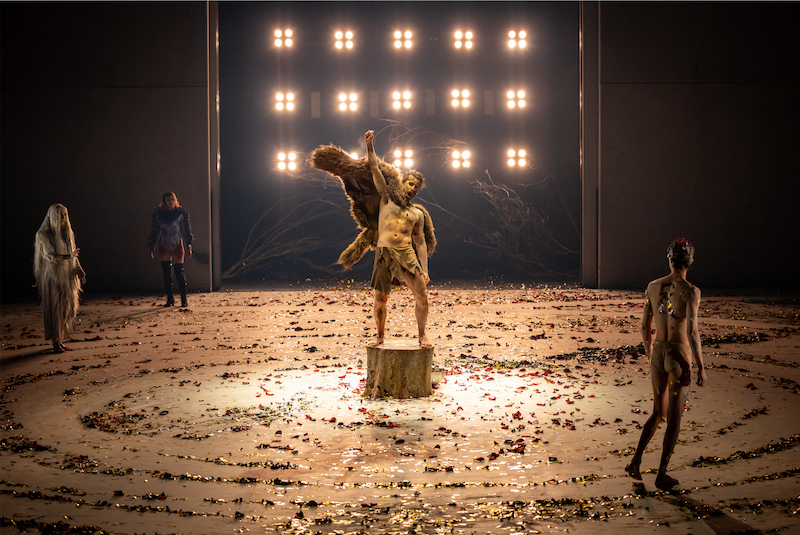
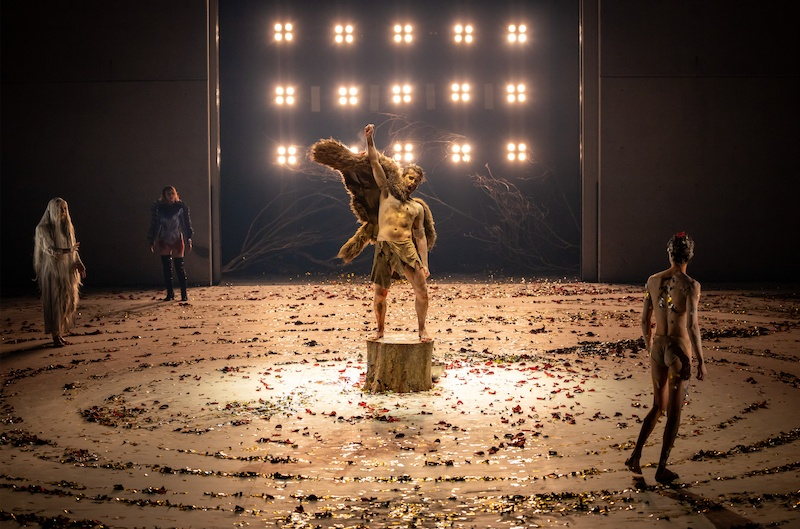
added perfs

diff --git a/media.html b/media.html
@@ -105,133 +105,131 @@
       <div class="container">
         <h2 class="section-heading mb-5">Gallery & Reviews</h2>
 
-        <div class="mosaic-grid">
+        <div class=”mosaic-grid”>
           <!-- IMAGES + REVIEW TILES -->
-          <div class="mosaic-item large" data-aos="zoom-in">
-            <a href="images/opera1.jpg" class="glightbox" data-gallery="media-gallery" data-title="Mr Jeffris in Oscar and Lucinda, Sydney Chamber Opera">
-              <img src="images/opera1.jpg" alt="Opera production 1" loading="lazy">
+          <div class=”mosaic-item large” data-aos=”zoom-in”>
+            <a href=”images/GilgameshHero.jpg” class=”glightbox” data-gallery=”media-gallery” data-title=”Title role in Gilgamesh, Opera Australia / Sydney Chamber Opera”>
+              <img src=”images/GilgameshHero.jpg” alt=”Gilgamesh hero” loading=”lazy”>
             </a>
           </div>
 
-          <div class="mosaic-item review-tile" data-aos="fade-up">
+          <div class=”mosaic-item review-tile” data-aos=”fade-up”>
             <blockquote>
               “Kleeman’s dexterity and luscious tone command the listener’s attention.”
               <footer>— Cut Common Magazine</footer>
             </blockquote>
           </div>
 
-          <div class="mosaic-item portrait" data-aos="zoom-in" data-aos-delay="1000">
-            <a href="images/opera9.jpg" class="glightbox" data-gallery="media-gallery" data-title="Figaro in The Marriage of Figaro, Opera Australia">
-              <img src="images/opera9.jpg" alt="Opera production 9" loading="lazy">
+          <div class=”mosaic-item landscape” data-aos=”zoom-in” data-aos-delay=”100”>
+            <a href=”images/NZSO.jpeg” class=”glightbox” data-gallery=”media-gallery” data-title=”Stabat Mater — New Zealand Symphony Orchestra”>
+              <img src=”images/NZSO.jpeg” alt=”New Zealand Symphony Orchestra” loading=”lazy”>
             </a>
           </div>
 
-                     <div class="mosaic-item portrait" data-aos="zoom-in" data-aos-delay="200">
-            <a href="images/opera3.jpg" class="glightbox" data-gallery="media-gallery" data-title="Collatinus in The Rape of Lucretia, Sydney Chamber Opera">
-              <img src="images/opera3.jpg" alt="Opera production 3" loading="lazy">
+          <div class=”mosaic-item portrait” data-aos=”zoom-in” data-aos-delay=”200”>
+            <a href=”images/opera9.jpg” class=”glightbox” data-gallery=”media-gallery” data-title=”Figaro in The Marriage of Figaro, Opera Australia”>
+              <img src=”images/opera9.jpg” alt=”Opera production 9” loading=”lazy”>
             </a>
           </div>
 
-          <div class="mosaic-item" data-aos="zoom-in" data-aos-delay="500">
-            <a href="images/opera5.jpg" class="glightbox" data-gallery="media-gallery" data-title="Marquis D'Obiginy in La traviata, Victorian Opera">
-              <img src="images/opera5.jpg" alt="Opera production 5" loading="lazy">
+          <div class=”mosaic-item landscape” data-aos=”zoom-in” data-aos-delay=”300”>
+            <a href=”images/CosiOQ.jpg” class=”glightbox” data-gallery=”media-gallery” data-title=”Guglielmo in Così fan tutte, Opera Queensland”>
+              <img src=”images/CosiOQ.jpg” alt=”Così fan tutte — Opera Queensland” loading=”lazy”>
             </a>
           </div>
 
-          <div class="mosaic-item review-tile" data-aos="fade-up" data-aos-delay="600">
+          <div class=”mosaic-item portrait” data-aos=”zoom-in” data-aos-delay=”200”>
+            <a href=”images/opera3.jpg” class=”glightbox” data-gallery=”media-gallery” data-title=”Collatinus in The Rape of Lucretia, Sydney Chamber Opera”>
+              <img src=”images/opera3.jpg” alt=”Opera production 3” loading=”lazy”>
+            </a>
+          </div>
+
+          <div class=”mosaic-item review-tile” data-aos=”fade-up” data-aos-delay=”300”>
             <blockquote>
               “Thrilling in its sense of command, the sheer volume of his rich bass-baritone arresting.”
               <footer>— Classic Melbourne</footer>
             </blockquote>
           </div>
-        
-          <div class="mosaic-item" data-aos="zoom-in" data-aos-delay="400">
-            <a href="images/opera4.jpg" class="glightbox" data-gallery="media-gallery" data-title="Rapunzel's Prince in Into the Woods, Victorian Opera">
-              <img src="images/opera4.jpg" alt="Opera production 4" loading="lazy">
+
+          <div class=”mosaic-item large” data-aos=”zoom-in” data-aos-delay=”100”>
+            <a href=”images/opera1.jpg” class=”glightbox” data-gallery=”media-gallery” data-title=”Mr Jeffris in Oscar and Lucinda, Sydney Chamber Opera”>
+              <img src=”images/opera1.jpg” alt=”Opera production 1” loading=”lazy”>
             </a>
           </div>
 
-          <div class="mosaic-item landscape" data-aos="zoom-in" data-aos-delay="100">
-            <a href="images/figaroOQ2021slap.jpg" class="glightbox" data-gallery="media-gallery" data-title="Le nozze di Figaro, Opera Queensland">
-              <img src="images/figaroOQ2021slap.jpg" alt="Figaro OQ" loading="lazy">
+          <div class=”mosaic-item portrait” data-aos=”zoom-in” data-aos-delay=”400”>
+            <a href=”images/CorcoranSOSA.jpg” class=”glightbox” data-gallery=”media-gallery” data-title=”Captain Corcoran in HMS Pinafore, State Opera of South Australia”>
+              <img src=”images/CorcoranSOSA.jpg” alt=”HMS Pinafore — State Opera SA” loading=”lazy”>
             </a>
           </div>
 
-          
-          <div class="mosaic-item landscape" data-aos="zoom-in" data-aos-delay="100">
-            <a href="images/opera2.jpg" class="glightbox" data-gallery="media-gallery" data-title="Toby Raven in Cloudstreet, State Opera of South Australia">
-              <img src="images/opera2.jpg" alt="Opera production 2" loading="lazy">
+          <div class=”mosaic-item” data-aos=”zoom-in” data-aos-delay=”500”>
+            <a href=”images/opera5.jpg” class=”glightbox” data-gallery=”media-gallery” data-title=”Marquis D’Obiginy in La traviata, Victorian Opera”>
+              <img src=”images/opera5.jpg” alt=”Opera production 5” loading=”lazy”>
             </a>
           </div>
-          
-          <div class="mosaic-item review-tile" data-aos="fade-up" data-aos-delay="300">
+
+          <div class=”mosaic-item” data-aos=”zoom-in” data-aos-delay=”400”>
+            <a href=”images/opera4.jpg” class=”glightbox” data-gallery=”media-gallery” data-title=”Rapunzel’s Prince in Into the Woods, Victorian Opera”>
+              <img src=”images/opera4.jpg” alt=”Opera production 4” loading=”lazy”>
+            </a>
+          </div>
+
+          <div class=”mosaic-item landscape” data-aos=”zoom-in” data-aos-delay=”100”>
+            <a href=”images/figaroOQ2021slap.jpg” class=”glightbox” data-gallery=”media-gallery” data-title=”Le nozze di Figaro, Opera Queensland”>
+              <img src=”images/figaroOQ2021slap.jpg” alt=”Figaro OQ” loading=”lazy”>
+            </a>
+          </div>
+
+          <div class=”mosaic-item review-tile” data-aos=”fade-up” data-aos-delay=”300”>
             <blockquote>
               “Amply covering the bass range down to the lowest notes with ease and resonance, making a great impact.”
               <footer>— Bachtrack</footer>
             </blockquote>
           </div>
 
-          <div class="mosaic-item portrait" data-aos="zoom-in" data-aos-delay="700">
-            <a href="images/rmpmessiah2024.jpg" class="glightbox" data-gallery="media-gallery" data-title="Messiah at Melbourne Town Hall with Royal Melbourne Philharmonic">
-              <img src="images/rmpmessiah2024.jpg" alt="RMP Messiah 2024" loading="lazy">
+          <div class=”mosaic-item landscape” data-aos=”zoom-in” data-aos-delay=”100”>
+            <a href=”images/opera2.jpg” class=”glightbox” data-gallery=”media-gallery” data-title=”Toby Raven in Cloudstreet, State Opera of South Australia”>
+              <img src=”images/opera2.jpg” alt=”Opera production 2” loading=”lazy”>
             </a>
           </div>
 
-          <div class="mosaic-item" data-aos="zoom-in" data-aos-delay="700">
-            <a href="images/opera6.jpg" class="glightbox" data-gallery="media-gallery" data-title="Magus in Voyage to the Moon, Victorian Opera">
-              <img src="images/opera6.jpg" alt="Opera production 6" loading="lazy">
+          <div class=”mosaic-item portrait” data-aos=”zoom-in” data-aos-delay=”700”>
+            <a href=”images/rmpmessiah2024.jpg” class=”glightbox” data-gallery=”media-gallery” data-title=”Messiah at Melbourne Town Hall with Royal Melbourne Philharmonic”>
+              <img src=”images/rmpmessiah2024.jpg” alt=”RMP Messiah 2024” loading=”lazy”>
             </a>
           </div>
 
-          <div class="mosaic-item" data-aos="zoom-in" data-aos-delay="800">
-            <a href="images/opera7.jpg" class="glightbox" data-gallery="media-gallery" data-title="Albert the Pudding in The Magic Pudding, Victorian Opera">
-              <img src="images/opera7.jpg" alt="Opera production 7" loading="lazy">
+          <div class=”mosaic-item” data-aos=”zoom-in” data-aos-delay=”700”>
+            <a href=”images/opera6.jpg” class=”glightbox” data-gallery=”media-gallery” data-title=”Magus in Voyage to the Moon, Victorian Opera”>
+              <img src=”images/opera6.jpg” alt=”Opera production 6” loading=”lazy”>
             </a>
           </div>
 
-          <div class="mosaic-item large" data-aos="zoom-in" data-aos-delay="900">
-            <a href="images/gilgameshweb.jpg" class="glightbox" data-gallery="media-gallery" data-title="Gilgamesh with Sydney Chamber Opera and Opera Australia">
-              <img src="images/gilgameshweb.jpg" alt="Gilgamesh" loading="lazy">
+          <div class=”mosaic-item large” data-aos=”zoom-in” data-aos-delay=”200”>
+            <a href=”images/gilgameshweb.jpg” class=”glightbox” data-gallery=”media-gallery” data-title=”Gilgamesh with Sydney Chamber Opera and Opera Australia”>
+              <img src=”images/gilgameshweb.jpg” alt=”Gilgamesh” loading=”lazy”>
             </a>
           </div>
 
-          <div class="mosaic-item review-tile landscape" data-aos="fade-up" data-aos-delay="600">
+          <div class=”mosaic-item review-tile landscape” data-aos=”fade-up” data-aos-delay=”600”>
             <blockquote>
               “Kleeman dominates the opera, creating a powerful, multi-dimensional character.”
               <footer>— Australian Book Review</footer>
             </blockquote>
           </div>
 
-          <div class="mosaic-item" data-aos="zoom-in" data-aos-delay="900">
-            <a href="images/opera8.jpg" class="glightbox" data-gallery="media-gallery" data-title="Teobaldo in Faramondo, Brisbane Baroque Festival">
-              <img src="images/opera8.jpg" alt="Opera production 8" loading="lazy">
+          <div class=”mosaic-item” data-aos=”zoom-in” data-aos-delay=”800”>
+            <a href=”images/opera7.jpg” class=”glightbox” data-gallery=”media-gallery” data-title=”Albert the Pudding in The Magic Pudding, Victorian Opera”>
+              <img src=”images/opera7.jpg” alt=”Opera production 7” loading=”lazy”>
             </a>
           </div>
 
-          <div class="mosaic-item large" data-aos="zoom-in" data-aos-delay="200">
-            <a href="images/GilgameshHero.jpg" class="glightbox" data-gallery="media-gallery" data-title="Title role in Gilgamesh, Opera Australia / Sydney Chamber Opera">
-              <img src="images/GilgameshHero.jpg" alt="Gilgamesh hero" loading="lazy">
+          <div class=”mosaic-item” data-aos=”zoom-in” data-aos-delay=”900”>
+            <a href=”images/opera8.jpg” class=”glightbox” data-gallery=”media-gallery” data-title=”Teobaldo in Faramondo, Brisbane Baroque Festival”>
+              <img src=”images/opera8.jpg” alt=”Opera production 8” loading=”lazy”>
             </a>
           </div>
-
-          <div class="mosaic-item landscape" data-aos="zoom-in" data-aos-delay="300">
-            <a href="images/NZSO.jpeg" class="glightbox" data-gallery="media-gallery" data-title="Stabat Mater — New Zealand Symphony Orchestra">
-              <img src="images/NZSO.jpeg" alt="New Zealand Symphony Orchestra" loading="lazy">
-            </a>
-          </div>
-
-          <div class="mosaic-item landscape" data-aos="zoom-in" data-aos-delay="400">
-            <a href="images/CosiOQ.jpg" class="glightbox" data-gallery="media-gallery" data-title="Guglielmo in Così fan tutte, Opera Queensland">
-              <img src="images/CosiOQ.jpg" alt="Così fan tutte — Opera Queensland" loading="lazy">
-            </a>
-          </div>
-
-          <div class="mosaic-item portrait" data-aos="zoom-in" data-aos-delay="500">
-            <a href="images/CorcoranSOSA.jpg" class="glightbox" data-gallery="media-gallery" data-title="Captain Corcoran in HMS Pinafore, State Opera of South Australia">
-              <img src="images/CorcoranSOSA.jpg" alt="HMS Pinafore — State Opera SA" loading="lazy">
-            </a>
-          </div>
-
 
         </div>
       </div>

diff --git a/performances.html b/performances.html
@@ -313,6 +313,53 @@
       </div>
     </div>
 
+    <!-- Performance 5 -->
+    <div class="col">
+      <div class="card perf-card h-100 border-0 text-center">
+        <div class="card-body d-flex flex-column justify-content-center p-4">
+            
+          <h3 class="work-title mb-1"><i>Ode on St Cecilia’s Day</i></h3>
+          <p class="composer mb-3">Purcell</p>
+
+          <h5 class="perf-role mb-3">Bass Soloist</h5>
+
+          <h6 class="company mb-3">Woodend Winter Arts Festival</h6>
+
+          <div class="venue-date mb-3">
+            <p class="perf-venue mb-4">St Ambrose Church</p>
+            <div class="perf-dates">
+              <span class="perf-date-pill">7-8 Jun, 2025</span>
+            </div>
+          </div>
+
+          <a href="https://www.oq.com.au/whats-on/la-boheme-2025/" class="more-info align-self-end" target="_blank" rel="noopener noreferrer"><i class="bi bi-arrow-right-circle"></i> More info</a>
+        </div>
+      </div>
+    </div>
+
+    <!-- Performance 6 -->
+    <div class="col">
+      <div class="card perf-card h-100 border-0 text-center">
+        <div class="card-body d-flex flex-column justify-content-center p-4">
+            
+          <h3 class="work-title mb-1"><i>Samson et Dalila</i></h3>
+          <p class="composer mb-3">Saint-Saëns</p>
+
+          <h5 class="perf-role mb-3">Abimelech</h5>
+
+          <h6 class="company mb-3">Melbourne Opera</h6>
+
+          <div class="venue-date mb-3">
+            <p class="perf-venue mb-4">Palais Theatre</p>
+            <div class="perf-dates">
+              <span class="perf-date-pill">1–3 Jun, 2025</span>
+            </div>
+          </div>
+
+          <a href="https://www.oq.com.au/whats-on/la-boheme-2025/" class="more-info align-self-end" target="_blank" rel="noopener noreferrer"><i class="bi bi-arrow-right-circle"></i> More info</a>
+        </div>
+      </div>
+    </div>
       
 
   </div>
